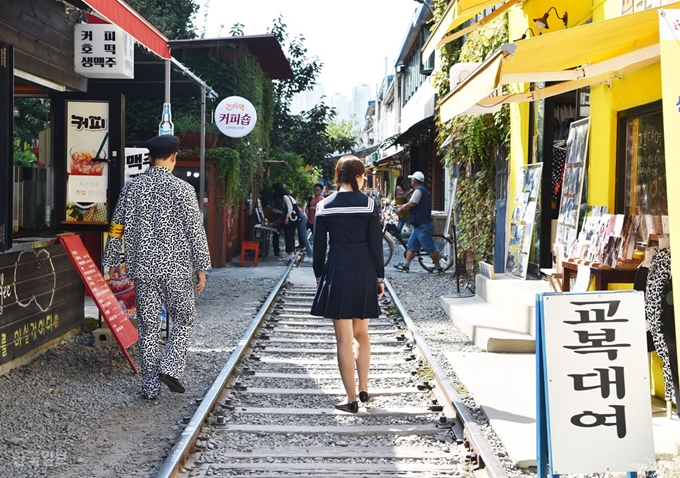
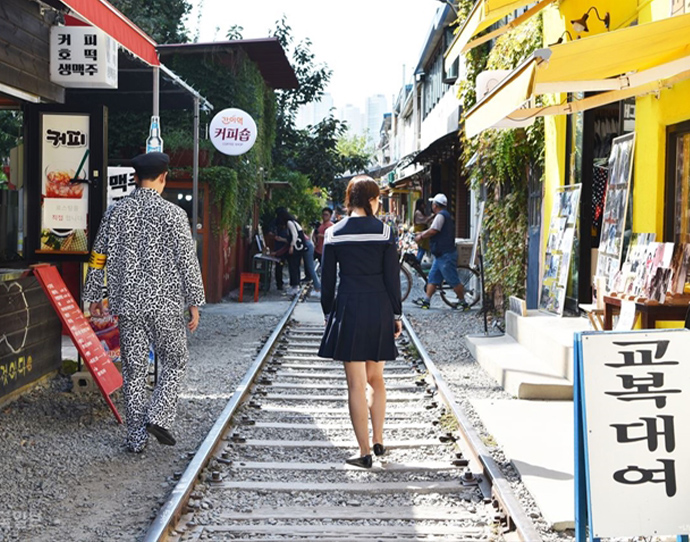
사진변경

diff --git a/index.html b/index.html
@@ -141,7 +141,7 @@
                 <h2>갤러리</h2>
                 <div class="img-box">
                   <a href="#"
-                    ><img src="./images/gallery1.png" alt="철길마을이미지" />
+                    ><img src="./images/gallery1.jpg" alt="철길마을이미지" />
                     <span>철길마을의 푸른 마을</span></a
                   >
                   <a href="#"
@@ -157,7 +157,7 @@
                   <li>
                     <a href="#"
                       ><img
-                        src="./images/gallery1.png"
+                        src="./images/gallery1.jpg"
                         alt="철길마을 바로가기"
                       />
                       <span>철길마을</span></a
